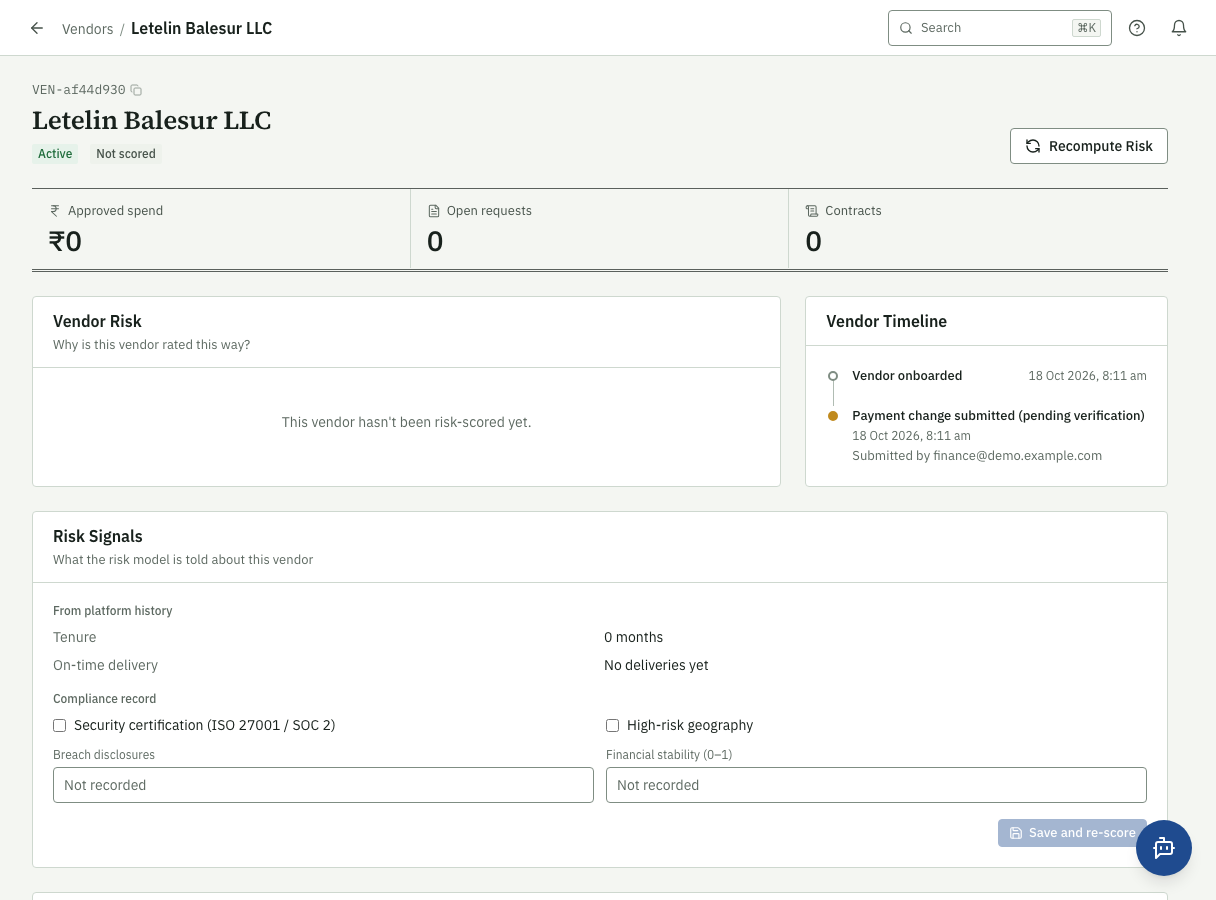
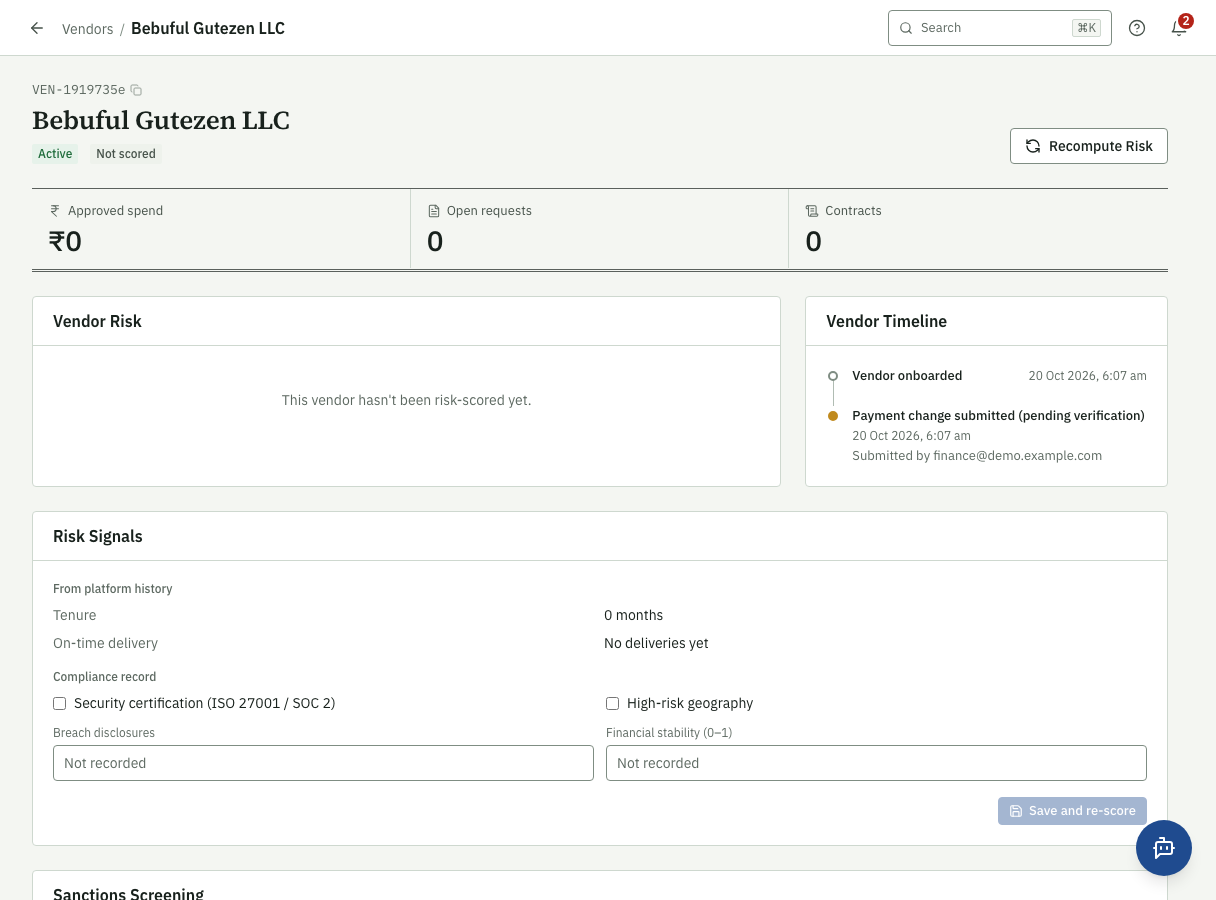
Demo docs: retaken from the current UI after reset-demo

diff --git a/docs/demo-script.html b/docs/demo-script.html
@@ -34,7 +34,7 @@
 <body><div class="page">
   <h1>Demo script</h1>
   <p class="muted">Five scenarios, each step: what to do, which agent acts and what event it sends, and what you should see. Generated by <code>tests/e2e/demo_scenarios.py</code>, which performs every step on the running stack first — the result and screenshot in each row are from that run.</p>
-  <div class="card"><b>Last verified:</b> 18 Oct 2026, 08:11 (run <code>93CC0E</code>) · <span class="sum">18 / 18 steps as described</span>
+  <div class="card"><b>Last verified:</b> 20 Oct 2026, 06:07 (run <code>2110D1</code>) · <span class="sum">18 / 18 steps as described</span>
     · see also <a href="showcase.html">showcase.html</a> (what to say) and <a href="project-flow.html">project-flow.html</a> (status)</div>
   <div class="card"><b>Before you start</b> — from a fresh clone:
 <pre>./run.sh                              # first run builds everything
@@ -47,30 +47,30 @@ python tests/e2e/demo_scenarios.py    # optional: run all five once and refresh 
 <p class="meta"><b>Proves:</b> One request passes every agent: approval by spend tier, a contract generated and sent with no clicks, an in-app signature, then delivery. · <b>Roles:</b> requester → approver → finance → requester · ~5 min</p>
 <div class="tblwrap"><table><thead><tr><th>#</th><th>Do</th><th>Agent · event</th><th>You should see</th><th>Screen</th></tr></thead>
 <tbody><tr><td class="n">1</td><td>As <b>requester</b>: New Request → licence, vendor <i>Acme IT Supplies Inc</i>, 1 × Figma Professional seat at ₹2,500 → Submit.</td><td><b>Approval &amp; Inventory</b><br><code>approval.requested</code></td>
-<td>The request page shows <b>Pending approval</b>; the chain is one step (department manager) because ₹2,500 is in the ₹500–5,000 tier.<div class="res"><span class="pill g">as described</span> <span class="muted">PR-dc33a9b2 · pending_approval · chain dept_manager</span></div></td><td class="pic"><a href="demo/1-01.png" target="_blank" rel="noopener"><img src="demo/1-01.png" alt="Step 1" loading="lazy"></a></td></tr><tr><td class="n">2</td><td>As <b>approver</b>: Approval Queue → open the request → Approve. (Optionally first try Approve as the requester: refused.)</td><td><b>Approval &amp; Inventory (Temporal workflow)</b><br><code>approval.decided</code></td>
+<td>The request page shows <b>Pending approval</b>; the chain is one step (department manager) because ₹2,500 is in the ₹500–5,000 tier.<div class="res"><span class="pill g">as described</span> <span class="muted">PR-18bdb3fa · pending_approval · chain dept_manager</span></div></td><td class="pic"><a href="demo/1-01.png" target="_blank" rel="noopener"><img src="demo/1-01.png" alt="Step 1" loading="lazy"></a></td></tr><tr><td class="n">2</td><td>As <b>approver</b>: Approval Queue → open the request → Approve. (Optionally first try Approve as the requester: refused.)</td><td><b>Approval &amp; Inventory (Temporal workflow)</b><br><code>approval.decided</code></td>
 <td>Status flips to <b>Approved</b> a moment later; the requester can't approve their own request.<div class="res"><span class="pill g">as described</span> <span class="muted">requester&#x27;s own approve → 403; approver → approved</span></div></td><td class="pic"><a href="demo/1-02.png" target="_blank" rel="noopener"><img src="demo/1-02.png" alt="Step 2" loading="lazy"></a></td></tr><tr><td class="n">3</td><td>Nothing — wait ~5 s, then open Contracts.</td><td><b>Contract &amp; Risk</b><br><code>contract.generated</code></td>
-<td>A contract for this request, <b>Pending signature</b>, marked as sent automatically; clauses read by Legal-BERT.<div class="res"><span class="pill g">as described</span> <span class="muted">contract 04e34c37 · pending_signature · sent automatically</span></div></td><td class="pic"><a href="demo/1-03.png" target="_blank" rel="noopener"><img src="demo/1-03.png" alt="Step 3" loading="lazy"></a></td></tr><tr><td class="n">4</td><td>As <b>finance</b>: open the contract → Sign now → type a name, tick consent → Sign.</td><td><b>Contract &amp; Risk → Approval &amp; Inventory</b><br><code>contract.signed</code></td>
+<td>A contract for this request, <b>Pending signature</b>, marked as sent automatically; clauses read by Legal-BERT.<div class="res"><span class="pill g">as described</span> <span class="muted">contract cc820665 · pending_signature · sent automatically</span></div></td><td class="pic"><a href="demo/1-03.png" target="_blank" rel="noopener"><img src="demo/1-03.png" alt="Step 3" loading="lazy"></a></td></tr><tr><td class="n">4</td><td>As <b>finance</b>: open the contract → Sign now → type a name, tick consent → Sign.</td><td><b>Contract &amp; Risk → Approval &amp; Inventory</b><br><code>contract.signed</code></td>
 <td>Contract <b>Signed</b> with a signature certificate; the request moves to <b>Ordered</b>. (Vendor is Medium risk, so no acknowledgement is asked.)<div class="res"><span class="pill g">as described</span> <span class="muted">signed (Medium risk: no acknowledgement needed) · request ordered · certificate issued</span></div></td><td class="pic"><a href="demo/1-04.png" target="_blank" rel="noopener"><img src="demo/1-04.png" alt="Step 4" loading="lazy"></a></td></tr><tr><td class="n">5</td><td>As <b>requester</b>: open the request → Mark as received.</td><td><b>Approval &amp; Inventory</b><br><code>—</code></td>
 <td>Status <b>Fulfilled</b>; every lifecycle step is now ticked.<div class="res"><span class="pill g">as described</span> <span class="muted">fulfilled</span></div></td><td class="pic"><a href="demo/1-05.png" target="_blank" rel="noopener"><img src="demo/1-05.png" alt="Step 5" loading="lazy"></a></td></tr></tbody></table></div></section><section class="sc" id="s2"><h2><span>2</span>A quote dropped in a folder, to a signed contract</h2>
 <p class="meta"><b>Proves:</b> Documents arriving without anyone clicking run through every agent: scan, read, vendor, request, approval, contract. · <b>Roles:</b> nobody, then finance to sign · ~4 min</p>
 <div class="tblwrap"><table><thead><tr><th>#</th><th>Do</th><th>Agent · event</th><th>You should see</th><th>Screen</th></tr></thead>
 <tbody><tr><td class="n">1</td><td>Copy a vendor quote into <code>./inbox</code> (here: a quote under ₹500 from a vendor the system has never seen). Watch Control Panel → Dropped files.</td><td><b>Document &amp; Vendor (inbox watcher, worker pipeline)</b><br><code>document.ingested → document.classified, vendor.matched</code></td>
-<td>Within ~30 s the file is scanned, stored, read and classified as a <b>quote</b>; a new vendor is created from it.<div class="res"><span class="pill g">as described</span> <span class="muted">₹462.56 quote · classified as quote · uploader inbox@procurement.local</span></div></td><td class="pic"><a href="demo/2-01.png" target="_blank" rel="noopener"><img src="demo/2-01.png" alt="Step 1" loading="lazy"></a></td></tr><tr><td class="n">2</td><td>Usually nothing. If the document says <b>Needs review</b> (most often the LayoutLMv3 cross-check read the subtotal as the total), as <b>finance</b> open it, check the total against the PDF and click <b>Confirm as Correct</b>.</td><td><b>Approval &amp; Inventory</b><br><code>approval.requested, approval.decided</code></td>
-<td>A purchase request created from the quote and <b>auto-approved</b> (under ₹500) — straight away, or right after the confirmation; a quote that needs review never becomes a request on its own.<div class="res"><span class="pill g">as described</span> <span class="muted">went to review (LayoutLMv3 read total 392.0 vs 462.56) → finance confirmed → PR-699663d3 · auto-approved (≤ ₹500 tier)</span></div></td><td class="pic"><a href="demo/2-02.png" target="_blank" rel="noopener"><img src="demo/2-02.png" alt="Step 2" loading="lazy"></a></td></tr><tr><td class="n">3</td><td>Nothing.</td><td><b>Contract &amp; Risk</b><br><code>contract.generated</code></td>
+<td>Within ~30 s the file is scanned, stored, read and classified as a <b>quote</b>; a new vendor is created from it.<div class="res"><span class="pill g">as described</span> <span class="muted">₹377.60 quote · classified as quote · uploader inbox@procurement.local</span></div></td><td class="pic"><a href="demo/2-01.png" target="_blank" rel="noopener"><img src="demo/2-01.png" alt="Step 1" loading="lazy"></a></td></tr><tr><td class="n">2</td><td>Usually nothing. If the document says <b>Needs review</b> (most often the LayoutLMv3 cross-check read the subtotal as the total), as <b>finance</b> open it, check the total against the PDF and click <b>Confirm as Correct</b>.</td><td><b>Approval &amp; Inventory</b><br><code>approval.requested, approval.decided</code></td>
+<td>A purchase request created from the quote and <b>auto-approved</b> (under ₹500) — straight away, or right after the confirmation; a quote that needs review never becomes a request on its own.<div class="res"><span class="pill g">as described</span> <span class="muted">went to review (LayoutLMv3 read total 320.0 vs 377.6) → finance confirmed → PR-d62c75d0 · auto-approved (≤ ₹500 tier)</span></div></td><td class="pic"><a href="demo/2-02.png" target="_blank" rel="noopener"><img src="demo/2-02.png" alt="Step 2" loading="lazy"></a></td></tr><tr><td class="n">3</td><td>Nothing.</td><td><b>Contract &amp; Risk</b><br><code>contract.generated</code></td>
 <td>A contract, <b>Pending signature</b> — Control Panel → Dropped files links document, request and contract.<div class="res"><span class="pill g">as described</span> <span class="muted">contract sent for signature automatically</span></div></td><td class="pic"><a href="demo/2-03.png" target="_blank" rel="noopener"><img src="demo/2-03.png" alt="Step 3" loading="lazy"></a></td></tr><tr><td class="n">4</td><td>As <b>finance</b>: open the contract → Sign now. (The new vendor was scored and screened when the contract was made; if it came out High, tick the risk acknowledgement.)</td><td><b>Contract &amp; Risk → Approval &amp; Inventory</b><br><code>contract.signed</code></td>
 <td>Contract <b>Signed</b>, request <b>Ordered</b> — from a dropped file with one human action.<div class="res"><span class="pill g">as described</span> <span class="muted">signed · request ordered</span></div></td><td class="pic"><a href="demo/2-04.png" target="_blank" rel="noopener"><img src="demo/2-04.png" alt="Step 4" loading="lazy"></a></td></tr></tbody></table></div></section><section class="sc" id="s3"><h2><span>3</span>Invoice matching: an overcharge is held, the right invoice is booked</h2>
 <p class="meta"><b>Proves:</b> Three-way match line by line against the order: a unit price above tolerance never goes through silently. · <b>Roles:</b> finance · ~3 min</p>
 <div class="tblwrap"><table><thead><tr><th>#</th><th>Do</th><th>Agent · event</th><th>You should see</th><th>Screen</th></tr></thead>
 <tbody><tr><td class="n">1</td><td>As <b>finance</b>: Documents → Upload an invoice from the scenario-2 vendor that quotes the PO number but charges 10 % more per item.</td><td><b>Document &amp; Vendor → Approval &amp; Inventory (invoice ledger)</b><br><code>document.classified</code></td>
-<td>The invoice is read and linked to the order, but flagged as a <b>variance</b> (“unit price … is above the agreed …”): it goes to <b>Needs review</b>, nothing is booked, and the request stays <b>Ordered</b>.<div class="res"><span class="pill g">as described</span> <span class="muted">₹508.82 · variance: &#x27;Wireless keyboard&#x27;: unit price 215.60 is above the agreed 196.00 · needs review · request still ordered</span></div></td><td class="pic"><a href="demo/3-01.png" target="_blank" rel="noopener"><img src="demo/3-01.png" alt="Step 1" loading="lazy"></a></td></tr><tr><td class="n">2</td><td>Upload the correct invoice (same PO, agreed prices).</td><td><b>Document &amp; Vendor → Approval &amp; Inventory</b><br><code>invoice.matched</code></td>
-<td>Matched line by line to the request; the request moves to <b>Invoice received</b> with nothing left to invoice.<div class="res"><span class="pill g">as described</span> <span class="muted">₹462.56 · matched to PR-699663d3 · request invoice_received · nothing left to invoice</span></div></td><td class="pic"><a href="demo/3-02.png" target="_blank" rel="noopener"><img src="demo/3-02.png" alt="Step 2" loading="lazy"></a></td></tr></tbody></table></div></section><section class="sc" id="s4"><h2><span>4</span>A new vendor: onboarding checks and risk before signing</h2>
+<td>The invoice is read and linked to the order, but flagged as a <b>variance</b> (“unit price … is above the agreed …”): it goes to <b>Needs review</b>, nothing is booked, and the request stays <b>Ordered</b>.<div class="res"><span class="pill g">as described</span> <span class="muted">₹415.36 · variance: &#x27;Wireless keyboard&#x27;: unit price 176.00 is above the agreed 160.00 · needs review · request still ordered</span></div></td><td class="pic"><a href="demo/3-01.png" target="_blank" rel="noopener"><img src="demo/3-01.png" alt="Step 1" loading="lazy"></a></td></tr><tr><td class="n">2</td><td>Upload the correct invoice (same PO, agreed prices).</td><td><b>Document &amp; Vendor → Approval &amp; Inventory</b><br><code>invoice.matched</code></td>
+<td>Matched line by line to the request; the request moves to <b>Invoice received</b> with nothing left to invoice.<div class="res"><span class="pill g">as described</span> <span class="muted">₹377.60 · matched to PR-d62c75d0 · request invoice_received · nothing left to invoice</span></div></td><td class="pic"><a href="demo/3-02.png" target="_blank" rel="noopener"><img src="demo/3-02.png" alt="Step 2" loading="lazy"></a></td></tr></tbody></table></div></section><section class="sc" id="s4"><h2><span>4</span>A new vendor: onboarding checks and risk before signing</h2>
 <p class="meta"><b>Proves:</b> Vendor data is checked before it&#x27;s trusted, every vendor is scored and screened before its first contract, and nobody signs with a High-risk vendor without acknowledging it. · <b>Roles:</b> finance → requester → approver → finance · ~5 min</p>
 <div class="tblwrap"><table><thead><tr><th>#</th><th>Do</th><th>Agent · event</th><th>You should see</th><th>Screen</th></tr></thead>
 <tbody><tr><td class="n">1</td><td>As <b>finance</b>: Vendors → Onboard vendor → name <i>Acme IT Suplies Inc</i>, GSTIN <code>27AAPFU0939F1ZX</code> → Check profile. Then change the name to <i>Acme IT Supply Co</i> and clear the GSTIN → Check profile.</td><td><b>Document &amp; Vendor</b><br><code>—</code></td>
 <td>First: <b>duplicate of “Acme IT Supplies Inc”</b> and <b>GSTIN failed check-digit validation</b> — Onboard stays disabled. Then: a <b>look-alike</b> warning (87 % similar) and a no-GSTIN warning, each to be confirmed with a reason.<div class="res"><span class="pill g">as described</span> <span class="muted">typo&#x27;d name → duplicate refused · bad GSTIN check digit refused · similar name → look-alike to confirm</span></div></td><td class="pic"><span class="muted">—</span></td></tr><tr><td class="n">2</td><td>Onboard a real new vendor without a GSTIN (give the reason) and with bank details.</td><td><b>Document &amp; Vendor</b><br><code>vendor.payment_details_flagged</code></td>
 <td>The vendor exists; its bank details are <b>pending verification</b> by a second person (scenario 5).<div class="res"><span class="pill g">as described</span> <span class="muted">onboarded without GSTIN (reason given) · bank details pending a second person</span></div></td><td class="pic"><a href="demo/4-02.png" target="_blank" rel="noopener"><img src="demo/4-02.png" alt="Step 2" loading="lazy"></a></td></tr><tr><td class="n">3</td><td>Still as <b>finance</b>, on the vendor page → Risk Signals: tick <i>High-risk geography</i>, breach disclosures 3, financial stability 0.15 → Save and re-score.</td><td><b>Contract &amp; Risk</b><br><code>risk.score.updated</code></td>
 <td>Vendor Risk becomes <b>High</b>, with the reasons; the vendor has also been screened against the sanctions list (Sanctions Screening: <i>Clear</i>).<div class="res"><span class="pill g">as described</span> <span class="muted">re-scored High (0.66) · sanctions screening: clear</span></div></td><td class="pic"><a href="demo/4-03.png" target="_blank" rel="noopener"><img src="demo/4-03.png" alt="Step 3" loading="lazy"></a></td></tr><tr><td class="n">4</td><td>As <b>requester</b>: a ₹4,200 SaaS request for that vendor; as <b>approver</b>: approve it.</td><td><b>Approval &amp; Inventory → Contract &amp; Risk</b><br><code>approval.requested, approval.decided, contract.generated</code></td>
-<td>A contract, <b>Pending signature</b>, whose Vendor risk panel shows <b>High</b> and says signing needs an acknowledgement.<div class="res"><span class="pill g">as described</span> <span class="muted">approved → contract 9d62b73a pending signature · risk panel: “The vendor&#x27;s risk band is High.”</span></div></td><td class="pic"><a href="demo/4-04.png" target="_blank" rel="noopener"><img src="demo/4-04.png" alt="Step 4" loading="lazy"></a></td></tr><tr><td class="n">5</td><td>As <b>finance</b>: Sign now — first without ticking the risk acknowledgement, then with it.</td><td><b>Contract &amp; Risk</b><br><code>contract.signed</code></td>
+<td>A contract, <b>Pending signature</b>, whose Vendor risk panel shows <b>High</b> and says signing needs an acknowledgement.<div class="res"><span class="pill g">as described</span> <span class="muted">approved → contract 19d76d8a pending signature · risk panel: “The vendor&#x27;s risk band is High.”</span></div></td><td class="pic"><a href="demo/4-04.png" target="_blank" rel="noopener"><img src="demo/4-04.png" alt="Step 4" loading="lazy"></a></td></tr><tr><td class="n">5</td><td>As <b>finance</b>: Sign now — first without ticking the risk acknowledgement, then with it.</td><td><b>Contract &amp; Risk</b><br><code>contract.signed</code></td>
 <td>Sign stays <b>disabled</b> until the High risk is acknowledged; the signature certificate records the band and the acknowledgement.<div class="res"><span class="pill g">as described</span> <span class="muted">without acknowledgement → refused (409); with it → signed; certificate records High + acknowledged</span></div></td><td class="pic"><a href="demo/4-05.png" target="_blank" rel="noopener"><img src="demo/4-05.png" alt="Step 5" loading="lazy"></a></td></tr></tbody></table></div></section><section class="sc" id="s5"><h2><span>5</span>Bank details need a second person</h2>
 <p class="meta"><b>Proves:</b> Changed or new bank details — the most common invoice fraud — can&#x27;t be used until someone else confirms them. · <b>Roles:</b> finance → admin · ~2 min</p>
 <div class="tblwrap"><table><thead><tr><th>#</th><th>Do</th><th>Agent · event</th><th>You should see</th><th>Screen</th></tr></thead>
